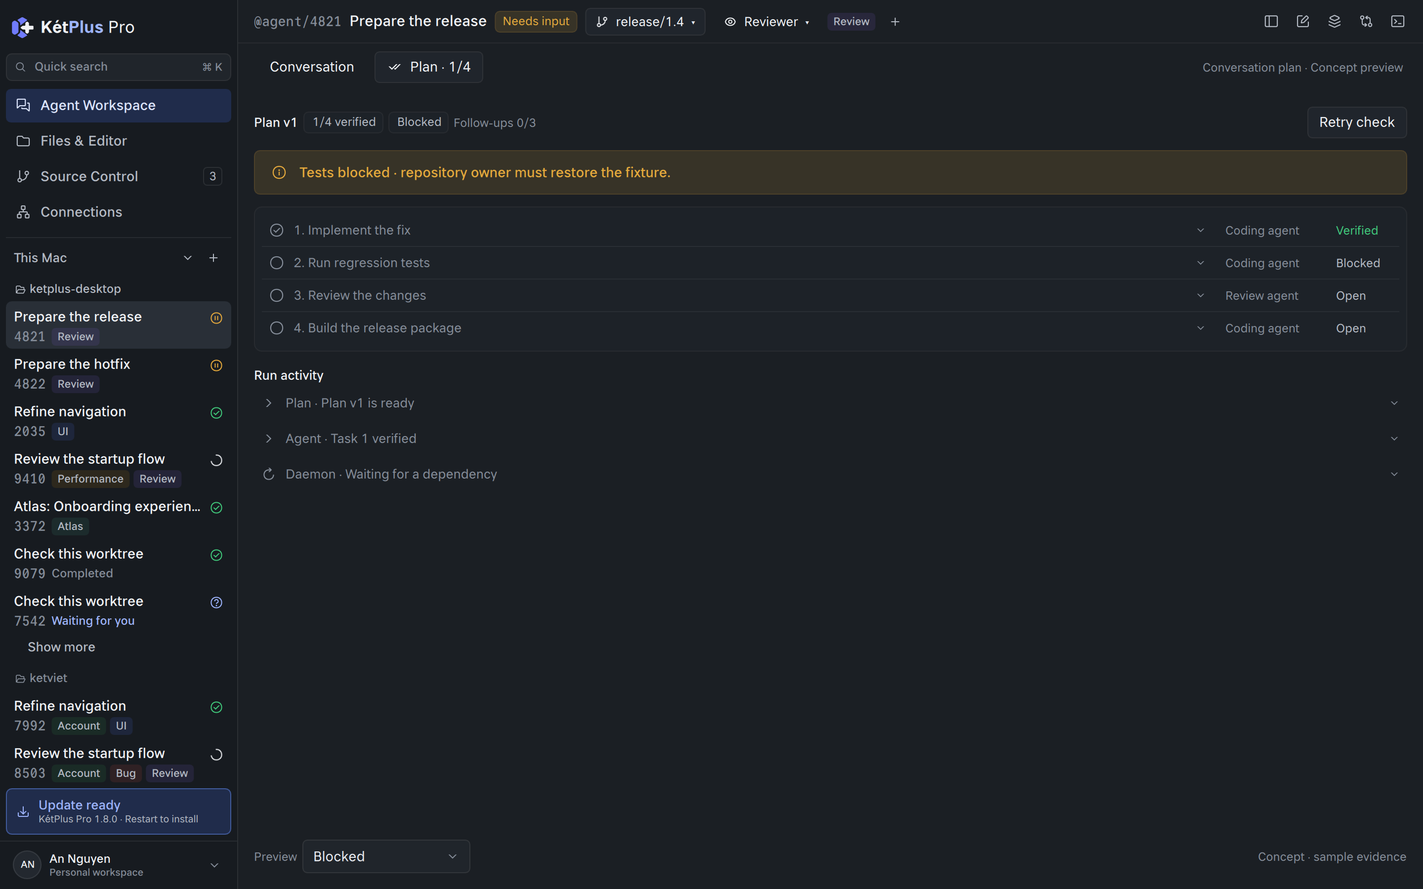
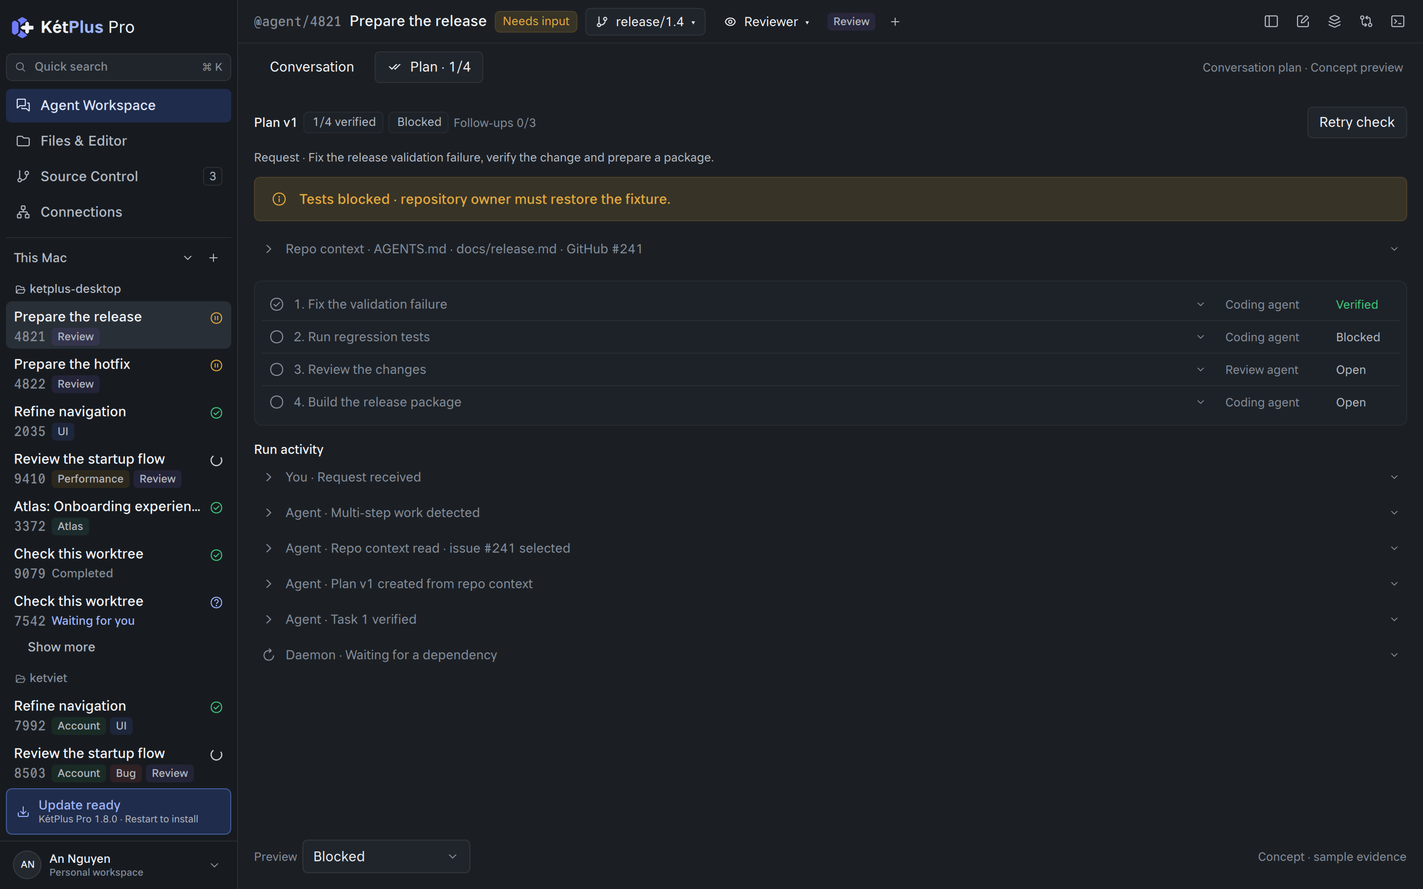
feat(mock): create conversation plans from repository context

diff --git a/mockups/qt/qml/parts/ConversationPlan.qml b/mockups/qt/qml/parts/ConversationPlan.qml
@@ -12,7 +12,7 @@ Item {
     required property var window
     function px(n) { return KetTheme.px(n, KetTheme.zoom) }
     required property var run
-    readonly property string stateLabel: ({ ready: "Ready", running: "Working", continuing: "Continuing",
+    readonly property string stateLabel: ({ ready: "Ready", planning: "Planning", running: "Working", continuing: "Continuing",
         blocked: "Blocked", paused: "Stopped by you", limit: "Limit reached", complete: "Complete" })[run.status]
     component Label: Text {
         color: KetTheme.t.textMain
@@ -32,16 +32,22 @@ Item {
         spacing: screen.px(12)
         RowLayout {
             Layout.fillWidth: true
-            Label { text: "Plan v1"; font.weight: Font.DemiBold }
-            KetBadge { text: run.completed + "/4 verified"; tone: run.completed === 4 ? KetTheme.BadgeTone.Success : KetTheme.BadgeTone.Neutral }
+            Label { text: run.planCreated ? "Plan v1" : "Automatic planning"; font.weight: Font.DemiBold }
+            KetBadge { visible: run.planCreated; text: run.completed + "/4 verified"; tone: run.completed === 4 ? KetTheme.BadgeTone.Success : KetTheme.BadgeTone.Neutral }
             KetBadge { text: screen.stateLabel; tone: run.active ? KetTheme.BadgeTone.Info : KetTheme.BadgeTone.Neutral }
-            Label { text: "Follow-ups " + run.followUps + "/" + run.followUpLimit; color: KetTheme.t.textMuted; font.pixelSize: screen.px(12) }
+            Label { visible: run.planCreated; text: "Follow-ups " + run.followUps + "/" + run.followUpLimit; color: KetTheme.t.textMuted; font.pixelSize: screen.px(12) }
             Item { Layout.fillWidth: true }
-            KetButton { visible: run.status === "ready"; text: "Run plan"; iconName: "arrow-right"; onClicked: run.start() }
+            KetButton { visible: run.status === "ready"; text: "Send sample prompt"; iconName: "arrow-right"; onClicked: run.submitPrompt() }
             KetButton { visible: run.active; text: "Stop run"; iconName: "stop-circle"; variant: KetTheme.ButtonVariant.Ghost; onClicked: run.stop() }
             KetButton { visible: run.status === "paused"; text: "Resume plan"; onClicked: run.resume() }
             KetButton { visible: run.status === "blocked"; text: "Retry check"; onClicked: run.retryBlocker() }
             KetButton { visible: run.status === "limit"; text: "Allow one more follow-up"; onClicked: run.extendLimit() }
+        }
+        Label {
+            Layout.fillWidth: true
+            text: "Request · " + run.prompt
+            font.pixelSize: screen.px(12)
+            color: KetTheme.t.textSecondary
         }
         KetBanner {
             Layout.fillWidth: true
@@ -51,7 +57,8 @@ Item {
                 : run.status === "paused" ? "Stopped by you. No automatic follow-up will start."
                 : run.status === "complete" ? "4/4 verified · plan complete. Deployment was not in scope."
                 : run.status === "running" ? "Working on task " + (run.completed + 1) + ". Progress stays with this conversation."
-                : "Run the plan. The daemon resumes unfinished work after an early finish."
+                : run.status === "planning" ? (run.contextRead ? "Repo context read. Creating a plan for this request." : "Multi-step work detected. Reading repo memory and relevant open issues.")
+                : "Send a request. The agent creates a plan when the work needs one."
             tone: ["blocked", "limit"].includes(run.status) ? KetTheme.BannerTone.Warning : KetTheme.BannerTone.Info
         }
         Basic.ScrollView {
@@ -63,7 +70,30 @@ Item {
             Column {
                 width: scroll.availableWidth
                 spacing: screen.px(16)
+                Column {
+                    width: parent.width
+                    KetActivityRow {
+                        id: contextToggle
+                        width: parent.width
+                        text: run.contextRead ? "Repo context · AGENTS.md · docs/release.md · GitHub #241" : "Repo context · memory and open issues · " + (run.status === "ready" ? "not read yet" : "reading")
+                        iconName: "chevron-right"
+                        expandable: true
+                    }
+                    Repeater {
+                        model: contextToggle.checked ? run.sources : []
+                        Label {
+                            required property var modelData
+                            x: screen.px(24)
+                            width: parent.width - x
+                            text: modelData.title + " — " + (run.contextRead ? modelData.detail : "Pending read")
+                            font.pixelSize: screen.px(12)
+                            color: KetTheme.t.textSecondary
+                            bottomPadding: screen.px(6)
+                        }
+                    }
+                }
                 Surface {
+                    visible: run.planCreated
                     width: parent.width
                     height: tasksColumn.implicitHeight + screen.px(16)
                     Column {
@@ -114,6 +144,7 @@ Item {
                                     bottomPadding: screen.px(12)
                                     spacing: screen.px(4)
                                     Label { width: parent.width; text: "Accept: " + task.modelData.criterion; color: KetTheme.t.textSecondary }
+                                    Label { width: parent.width; text: "Source: " + task.modelData.source; color: KetTheme.t.textMuted; font.pixelSize: screen.px(12) }
                                     Label { width: parent.width; text: task.done ? "Evidence: " + task.modelData.evidence : "Evidence pending"; color: task.done ? KetTheme.t.success : KetTheme.t.textMuted }
                                 }
                                 Rectangle { visible: task.index < 3; width: parent.width; height: 1; color: KetTheme.t.panelBorder }
@@ -124,7 +155,7 @@ Item {
                 Column {
                     width: parent.width
                     spacing: screen.px(4)
-                    Label { text: "Run activity"; font.weight: Font.DemiBold }
+                    Label { visible: run.events.length > 0; text: "Run activity"; font.weight: Font.DemiBold }
                     Repeater {
                         model: run.events
                         Column {
@@ -156,13 +187,13 @@ Item {
             Label { text: "Preview"; color: KetTheme.t.textMuted; font.pixelSize: screen.px(12) }
             KetSelect {
                 Layout.preferredWidth: screen.px(170)
-                model: ["Ready", "Working", "Early finish", "Blocked", "Stopped", "Limit reached", "Complete"]
-                currentIndex: ["ready", "running", "continuing", "blocked", "paused", "limit", "complete"].indexOf(run.status)
-                onActivated: index => run.load(["ready", "running", "continuing", "blocked", "paused", "limit", "complete"][index])
+                model: ["Before prompt", "Planning", "Working", "Early finish", "Blocked", "Stopped", "Limit reached", "Complete"]
+                currentIndex: ["ready", "planning", "running", "continuing", "blocked", "paused", "limit", "complete"].indexOf(run.status)
+                onActivated: index => run.load(["ready", "planning", "running", "continuing", "blocked", "paused", "limit", "complete"][index])
             }
             KetButton {
-                visible: run.status === "continuing" && !run.autoplay
-                text: "Play continuation"; variant: KetTheme.ButtonVariant.Ghost
+                visible: (run.status === "continuing" || run.status === "planning") && !run.autoplay
+                text: run.status === "planning" ? "Play planning" : "Play continuation"; variant: KetTheme.ButtonVariant.Ghost
                 onClicked: run.autoplay = true
             }
             Item { Layout.fillWidth: true }

diff --git a/mockups/qt/qml/parts/PlanRunModel.qml b/mockups/qt/qml/parts/PlanRunModel.qml
@@ -10,20 +10,28 @@ QtObject {
     property int followUps: 0
     property int followUpLimit: 3
     property bool autoplay: false
+    property bool contextRead: false
+    property bool planCreated: false
+    property string resumeState: "running"
+    readonly property string prompt: "Fix the release validation failure, verify the change and prepare a package."
+    readonly property var sources: [
+        { title: "AGENTS.md", detail: "Repo memory · run regression tests and review the same commit before packaging." },
+        { title: "docs/release.md", detail: "Repo memory · package locally; publishing requires a separate request." },
+        { title: "GitHub issue #241 · Open", detail: "Relevant issue · release validation fails when the fixture path changes. Use its reproduction as an acceptance check." }
+    ]
     property Timer clock: Timer {
         interval: 2200
         repeat: true
         running: run.autoplay && run.active
         onTriggered: run.advance()
     }
-    property var events: [{ actor: "Plan", title: "Plan v1 is ready",
-        detail: "Four tasks with explicit acceptance criteria. Deployment is outside this plan." }]
-    readonly property bool active: status === "running" || status === "continuing"
+    property var events: []
+    readonly property bool active: status === "planning" || status === "running" || status === "continuing"
     readonly property var tasks: [
-        { title: "Implement the fix", owner: "Coding agent", criterion: "Patch matches the agreed scope.", evidence: "Commit 9f31c2a · 3 files changed" },
-        { title: "Run regression tests", owner: "Coding agent", criterion: "All 48 regression tests pass.", evidence: "48 / 48 passed · test-results.txt" },
-        { title: "Review the changes", owner: "Review agent", criterion: "Review the same commit; no open findings.", evidence: "Review for 9f31c2a · no open findings" },
-        { title: "Build the release package", owner: "Coding agent", criterion: "Build succeeds and the artifact exists.", evidence: "Build passed · release-package.zip" }
+        { title: "Fix the validation failure", owner: "Coding agent", criterion: "Issue #241 reproduction passes after the patch.", source: "GitHub #241", evidence: "Commit 9f31c2a · 3 files changed" },
+        { title: "Run regression tests", owner: "Coding agent", criterion: "All 48 regression tests pass.", source: "AGENTS.md · GitHub #241", evidence: "48 / 48 passed · test-results.txt" },
+        { title: "Review the changes", owner: "Review agent", criterion: "Review the same commit; no open findings.", source: "AGENTS.md", evidence: "Review for 9f31c2a · no open findings" },
+        { title: "Build the release package", owner: "Coding agent", criterion: "Build succeeds and the artifact exists.", source: "docs/release.md · user request", evidence: "Build passed · release-package.zip" }
     ]
     function record(actor, title, detail) {
         events = events.concat([{ actor: actor, title: title, detail: detail }])
@@ -31,8 +39,13 @@ QtObject {
     function load(state) {
         autoplay = false
         status = "ready"; completed = 0; followUps = 0; followUpLimit = 3; events = []
-        record("Plan", "Plan v1 is ready", "Four tasks with explicit acceptance criteria. Deployment is outside this plan.")
+        contextRead = false; planCreated = false; resumeState = "running"
         if (state === "ready") return
+        record("You", "Request received", prompt)
+        record("Agent", "Multi-step work detected", "Inspect repo memory and relevant open issues, then create a plan for this conversation.")
+        if (state === "planning") { status = state; return }
+        readContext()
+        createPlan()
         completed = state === "complete" ? 4 : 1
         record("Agent", "Task 1 verified", tasks[0].evidence)
         status = state
@@ -52,8 +65,24 @@ QtObject {
             record("Daemon", "Plan complete", "All four acceptance criteria have evidence. No further follow-up is scheduled.")
         }
     }
+    function submitPrompt() {
+        if (status !== "ready") return
+        status = "planning"; autoplay = true
+        record("You", "Request received", prompt)
+        record("Agent", "Multi-step work detected", "A fix, verification, review and packaging need a conversation plan. Reading repo memory and open issues first.")
+    }
+    function readContext() {
+        contextRead = true
+        record("Agent", "Repo context read · issue #241 selected", "Read AGENTS.md, docs/release.md and open issues. #241 matches this request; unrelated backlog stays outside the plan.")
+    }
+    function createPlan() {
+        planCreated = true
+        record("Agent", "Plan v1 created from repo context", "Four tasks scoped to this request, with source references and acceptance criteria. Deployment is outside the plan.")
+    }
     function start() {
         if (status !== "ready") return
+        if (!contextRead) readContext()
+        if (!planCreated) createPlan()
         status = "running"; autoplay = true
         record("Agent", "Working on task 1", "Implementing the agreed fix on release/1.4.")
     }
@@ -65,6 +94,11 @@ QtObject {
     }
     function advance() {
         if (!active) return
+        if (status === "planning") {
+            if (!contextRead) readContext()
+            else { createPlan(); status = "ready"; start() }
+            return
+        }
         if (status === "continuing") {
             if (followUps >= followUpLimit) {
                 status = "limit"; autoplay = false
@@ -86,12 +120,13 @@ QtObject {
     }
     function stop() {
         if (!active) return
+        resumeState = status === "planning" ? "planning" : "running"
         status = "paused"; autoplay = false
         record("You", "Run stopped", "Queued continuation cancelled. Completed tasks and evidence are preserved.")
     }
     function resume() {
         if (status !== "paused") return
-        status = "running"; autoplay = true
+        status = resumeState; autoplay = true
         record("You", "Run resumed", "Continue at task " + (completed + 1) + ".")
     }
     function retryBlocker() {

diff --git a/mockups/qt/tests/tst_PlanRunModel.qml b/mockups/qt/tests/tst_PlanRunModel.qml
@@ -8,6 +8,33 @@ TestCase {
     PlanRunModel { id: run; conversationId: "4821" }
     Component { id: storeFactory; ConversationPlanStore {} }
     function init() { run.clock.interval = 2200; run.load("ready") }
+    function test_prompt_reads_repo_context_before_creating_plan() {
+        run.submitPrompt()
+        compare(run.status, "planning")
+        verify(!run.contextRead)
+        verify(!run.planCreated)
+        run.advance()
+        verify(run.contextRead)
+        verify(!run.planCreated)
+        compare(run.completed, 0)
+        run.advance()
+        verify(run.planCreated)
+        compare(run.status, "running")
+        compare(run.completed, 0)
+        verify(run.tasks.every(t => t.source.length > 0))
+    }
+    function test_stop_during_context_read_does_not_skip_planning() {
+        run.submitPrompt(); run.stop()
+        run.advance()
+        verify(!run.contextRead)
+        verify(!run.planCreated)
+        run.resume()
+        compare(run.status, "planning")
+        run.advance(); run.advance()
+        verify(run.planCreated)
+        compare(run.status, "running")
+        compare(run.completed, 0)
+    }
     function test_early_finish_keeps_open_tasks_and_resumes() {
         run.start(); run.advance()
         compare(run.status, "continuing")
@@ -89,7 +116,7 @@ TestCase {
     }
     function test_timer_finishes_without_another_user_prompt() {
         run.clock.interval = 5
-        run.start()
+        run.submitPrompt()
         tryCompare(run, "status", "complete", 2000)
         compare(run.completed, 4)
         compare(run.followUps, 1)
@@ -104,7 +131,7 @@ TestCase {
         compare(run.followUps, 0)
     }
     function test_direct_scenes_do_not_autoplay() {
-        for (const state of ["ready", "running", "continuing", "blocked", "paused", "limit", "complete"]) {
+        for (const state of ["ready", "planning", "running", "continuing", "blocked", "paused", "limit", "complete"]) {
             run.load(state)
             compare(run.status, state)
             verify(!run.autoplay)

diff --git a/mockups/qt/qml/Main.qml b/mockups/qt/qml/Main.qml
@@ -13,7 +13,7 @@ Basic.ApplicationWindow {
 
     // Screens, in sidebar order. A state follows a slash: "workspace/welcome".
     readonly property var screenIds: [
-        "workspace/plan-ready", "workspace/plan-running", "workspace/plan-continuing", "workspace/plan-blocked", "workspace/plan-paused", "workspace/plan-limit", "workspace/plan-complete",
+        "workspace/plan-ready", "workspace/plan-planning", "workspace/plan-running", "workspace/plan-continuing", "workspace/plan-blocked", "workspace/plan-paused", "workspace/plan-limit", "workspace/plan-complete",
         "workspace", "workspace/welcome", "workspace/running", "workspace/question",
         "workspace/error", "workspace/atlas", "workspace/details", "workspace/claude",
         "workspace/codex", "workspace/cursor", "workspace/turn-report", "editor", "editor/terminal",

diff --git a/mockups/qt/qml/screens/WorkspaceScreen.qml b/mockups/qt/qml/screens/WorkspaceScreen.qml
@@ -101,7 +101,7 @@ Item {
                     onClicked: screen.planVisible = false
                 }
                 KetButton {
-                    text: "Plan · " + (screen.planRun ? screen.planRun.completed : 0) + "/4"
+                    text: screen.planRun && screen.planRun.planCreated ? "Plan · " + screen.planRun.completed + "/4" : "Plan"
                     iconName: "check-all"
                     variant: screen.planVisible ? KetTheme.ButtonVariant.Secondary : KetTheme.ButtonVariant.Ghost
                     onClicked: screen.openPlan("")

diff --git a/mockups/qt/marketing/plan-harness/README.md b/mockups/qt/marketing/plan-harness/README.md
@@ -6,18 +6,20 @@ The plan belongs to a conversation, not to a project-wide Planning screen. Open 
 
 Each task is one row: completion icon, task title, owner and status. Expand a task to inspect its acceptance criterion and evidence. Activity entries are also one row; expand one for details. The conversation header and sidebar reflect the run state. The Plan tab shows the verified count.
 
-All text is English. The footer’s Preview selector and Play continuation button are prototype controls, not proposed production controls. Concept labels and sample-evidence disclosures must remain when these captures are used in marketing.
+All text is English. The footer’s Preview selector and playback buttons are prototype controls, not proposed production controls. Concept labels and sample-evidence disclosures must remain when these captures are used in marketing.
 
 ## Demonstration
 
-- Choose Ready and press Run plan. The first task completes, the agent ends its turn prematurely, and the simulated daemon automatically resumes the same conversation at task 2. The remaining tasks complete with fixture evidence.
+- Choose Before prompt and press Send sample prompt. The fixture request needs several steps, so the simulated agent first reads repository memory and open issues, selects relevant issue #241, then creates Plan v1 for this conversation and starts work automatically. No separate Run plan action is required.
+- Expand Repo context to inspect the sample sources. Expand a task to see its source and acceptance criterion. Unrelated issues are excluded; repo context informs the user’s request rather than adding the entire backlog to the scope.
+- The first task completes, the agent ends its turn prematurely, and the simulated daemon automatically resumes the same conversation at task 2. The remaining tasks complete with fixture evidence.
 - Stop run cancels queued continuation and stops the timer. Resume plan is explicit and preserves prior progress.
 - Blocked retains open tasks and names the repository owner who must restore the fixture. Retry check deliberately leaves it blocked; no external dependency is actually checked or repaired.
 - Limit reached preserves the attempt counter. Only Allow one more follow-up increases the budget.
 - Complete ends automatic continuation. Deployment is outside the sample plan’s scope.
 - Open conversation 4822 to view a separate plan; return to 4821 to see its existing progress.
 
-These interactions are a proposed harness. There is no production daemon scheduler, persisted plan storage, task validation, tracker synchronization or provider invocation in this change. Evidence strings, commits, tests, reviews and artifacts are fictional. The existing response-guidance report is not proof that this harness is already implemented.
+These interactions are a proposed harness. There is no production daemon scheduler, persisted plan storage, task validation, tracker synchronization or provider invocation in this change. Repository files, issue #241, evidence strings, commits, tests, reviews and artifacts are fictional. The demo has a deterministic multi-step fixture, not an implemented prompt classifier or a live GitHub connection. A production agent should handle simple requests directly when no plan is useful; this branch does not mock the direct-answer path. The existing response-guidance report is not proof that this harness is already implemented.
 
 ## Reproduce
 
@@ -26,6 +28,7 @@ Build the standalone mock using ../../README.md, then from the repository root:
 ```sh
 MOCK=build/mock/KetPlusMock.app/Contents/MacOS/KetPlusMock
 "$MOCK" --screen=workspace --state=plan-ready --dark
+"$MOCK" --screen=workspace --state=plan-planning --dark --screenshot=mockups/qt/marketing/plan-harness/planning-dark.png
 "$MOCK" --screen=workspace --state=plan-continuing --dark --screenshot=mockups/qt/marketing/plan-harness/continuing-dark.png
 "$MOCK" --screen=workspace --state=plan-complete --light --screenshot=mockups/qt/marketing/plan-harness/complete-light.png
 "$MOCK" --screen=workspace --state=plan-blocked --dark --screenshot=mockups/qt/marketing/plan-harness/blocked-dark.png
@@ -39,8 +42,8 @@ Other direct states: `plan-running`, `plan-paused`, `plan-limit`. Direct state p
 ## Verification
 
 - Standalone mock build passed.
-- QML model suite: 11 passed, 0 failed. Covers automatic timer continuation, conversation isolation, explicit stop/resume, blocker retention and follow-up limits.
-- Pro smoke: 54 screens, 0 QML problems. Lite smoke: 11 screens, 0 QML problems.
+- QML model suite: 13 passed, 0 failed. Covers automatic timer continuation, conversation isolation, explicit stop/resume, blocker retention and follow-up limits.
+- Pro smoke: 55 screens, 0 QML problems. Lite smoke: 11 screens, 0 QML problems.
 - Inspected native captures for continuing and blocked in dark mode, and complete with collapsed and expanded evidence in light mode. All four tasks fit on single rows when collapsed.
 - Native click automation could not attach to the preview window (`cgWindowNotFound`). Button interactions were not verified by desktop automation; model transitions and the real QML timer were tested directly. No production daemon, package installation or external tracker was tested.
 
@@ -52,4 +55,4 @@ Use conversation identity plus plan revision and task identity to scope progress
 
 **The turn ended. The plan didn’t.**
 
-Concept: a conversation plan that tracks verified tasks and asks the agent to continue unfinished work, with explicit stops, blockers and run limits.
+Concept: an agent that recognizes multi-step work, creates a conversation plan from relevant repository context, tracks verified tasks and asks the agent to continue unfinished work, with explicit stops, blockers and run limits.

diff --git a/mockups/qt/README.md b/mockups/qt/README.md
@@ -46,7 +46,7 @@ Screens and states (`--screen` / `--state`):
 | `connections` | `signed-out`, `expired`, `sign-in` | Signed out: the introduction (this Mac and KetPlus Mobile, the three pairing steps), the expired-login banner, the browser sign-in dialog |
 | `settings` | `typography`, `account`, `browser`, `computer`, `providers`, `archived`, `storage`, `updates` | The app's order: Appearance (live theme, follow system, zoom), typography, account, Agent models (opens the model picker), browser, computer use, providers (CLI status, Claude API access, organization usage), archive, storage (journal size by part, retention, size limit and warning, largest conversations, Compact now), updates |
 | `workspace` | `claude`, `codex`, `cursor` | One transcript per provider with every content type its journal produces (see Transcript content types); the composer follows the conversation's provider and model. `--scroll=0.5` starts the transcript part of the way down |
-| `workspace` | `plan-ready`, `plan-running`, `plan-continuing`, `plan-blocked`, `plan-paused`, `plan-limit`, `plan-complete` | Concept: the Plan tab belongs to the selected conversation. Checklist, evidence, daemon follow-up, Stop, blocker and budget states. See [the harness preview](marketing/plan-harness/README.md). |
+| `workspace` | `plan-ready`, `plan-planning`, `plan-running`, `plan-continuing`, `plan-blocked`, `plan-paused`, `plan-limit`, `plan-complete` | Concept: the Plan tab belongs to the selected conversation. Automatic planning from repository context, compact tasks and source references, daemon follow-up, Stop, blocker and budget states. See [the harness preview](marketing/plan-harness/README.md). |
 | `workspace` | `turn-report` | English marketing sample: end-of-turn status, evidence, blockers, next actions and owners. Uses the existing final-answer Markdown table renderer; all release data is fictional. |
 | `workspace` | `storage-warning` | The sidebar's journal warning above Update ready; it opens Settings → Storage and clears after Compact now |
 | `workspace` | `setup-cli-missing`, `setup-cli-outdated`, `setup-signed-out`, `setup-claude-signed-out`, `setup-sidecar-missing` | A provider that cannot start a turn: a new conversation with its setup guide above the composer, which keeps the draft (see Provider setup) |
